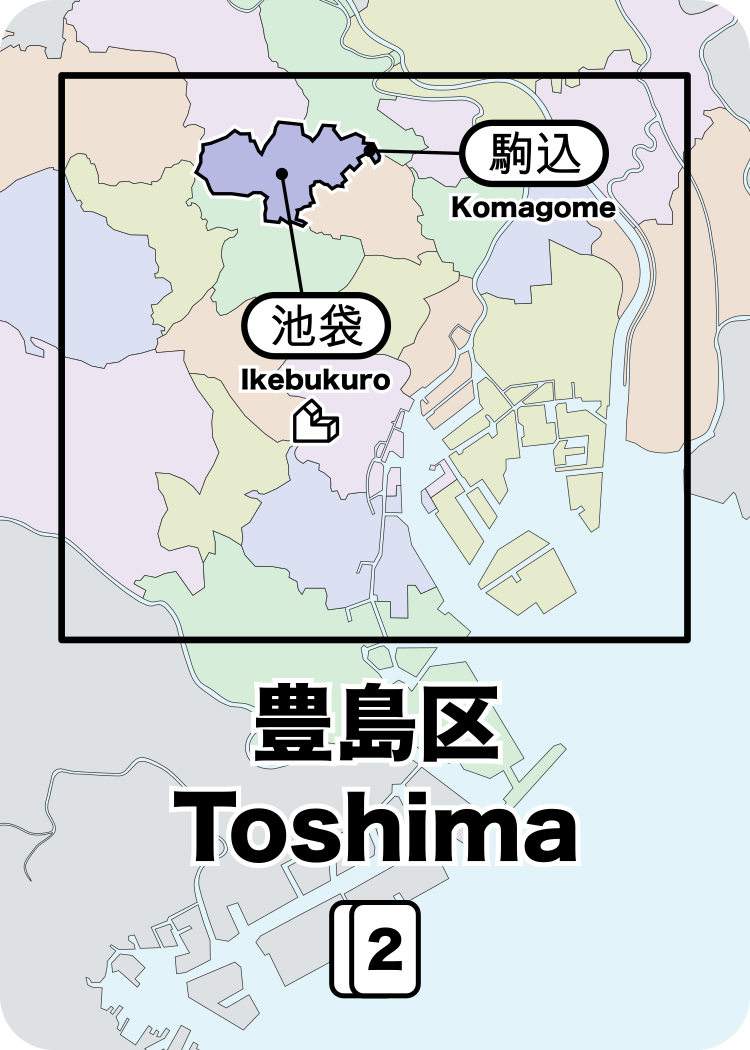
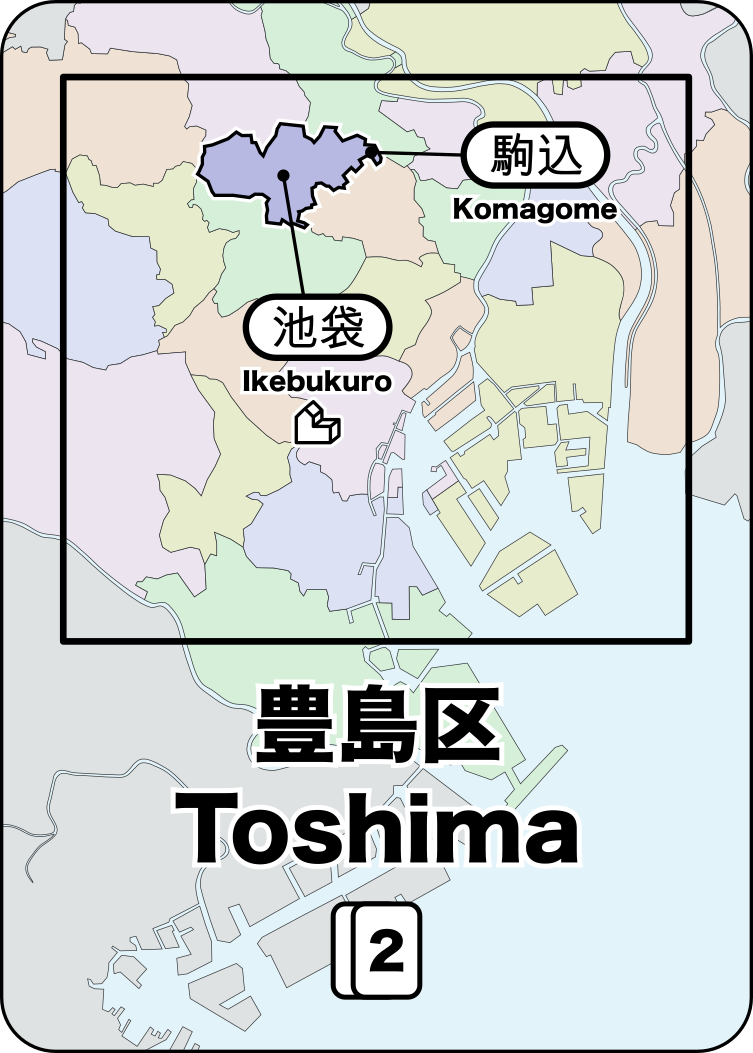
Update rounded ku card images (and script)

diff --git a/ku-card-export.py b/ku-card-export.py
@@ -133,7 +133,9 @@ def export_png(dir, basename, wards, id):
 
 # Tokyo	
 #export_png('.', 'ku-cards', _wards, "cut-line")
+export_png('.', 'ku-cards-rounded', _wards, "cut-line")
+
 
 # Paris
 #export_png('paris', 'arr-cards', _arr, "cut-line")
-export_png('paris', 'arr-cards', _arr, "mpc-bbox")
+#export_png('paris', 'arr-cards', _arr, "mpc-bbox")
